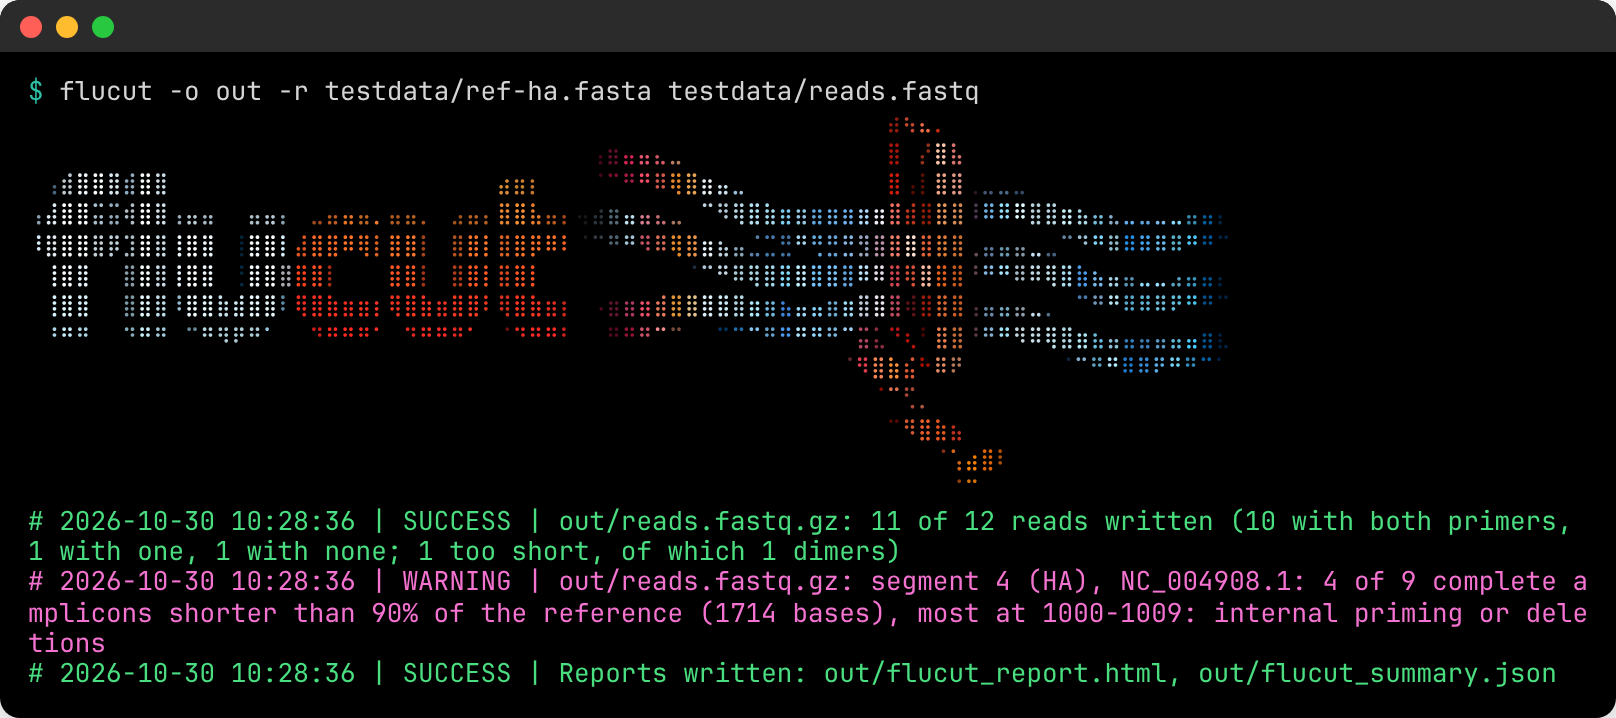
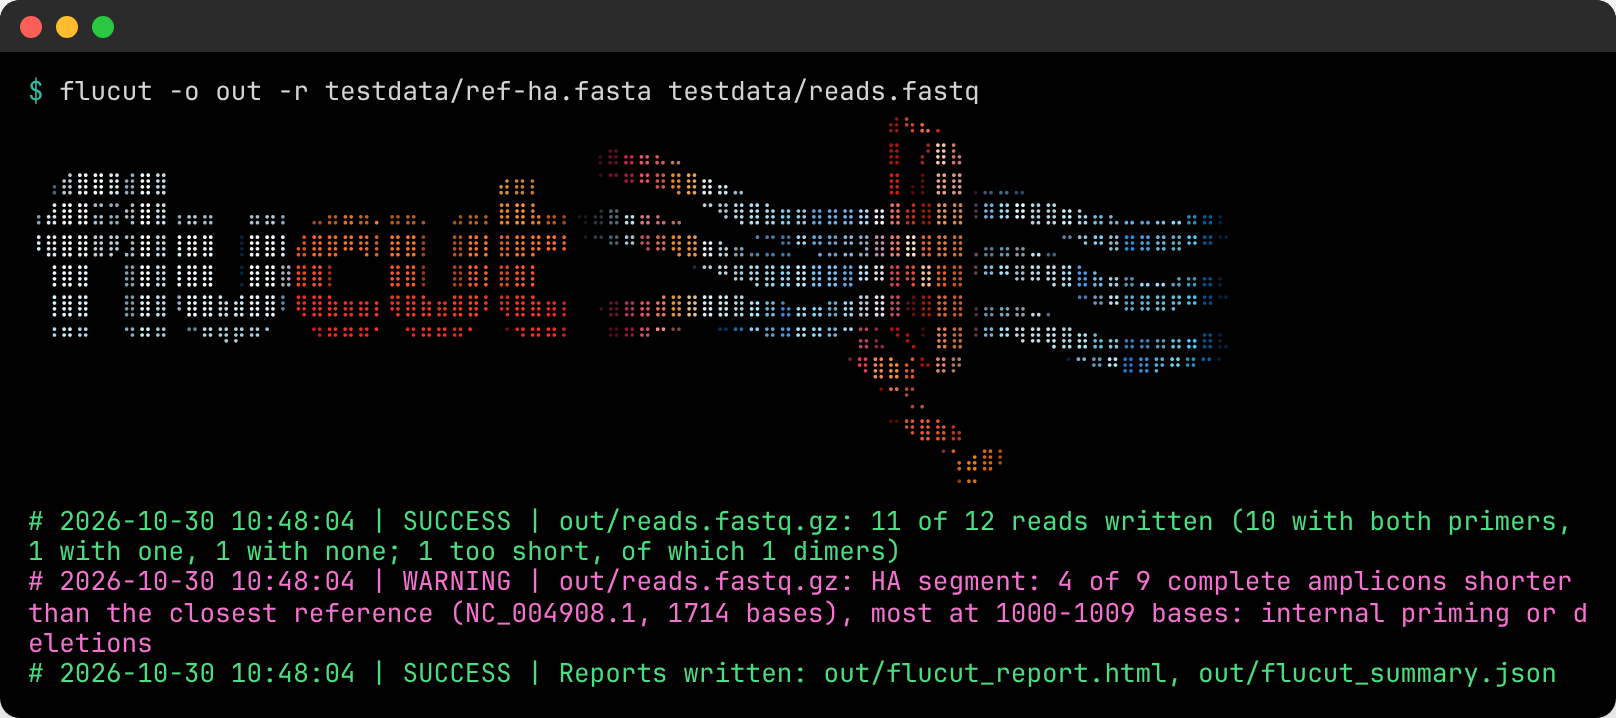
Warning of the short amplicons: the segment first, the closest reference

Changed region(s): [[0.0, 0.7967, 0.9901, 0.9192], [0.1547, 0.9192, 0.2166, 0.9499], [0.1547, 0.7047, 0.2166, 0.7354]]

diff --git a/src/flucut.c b/src/flucut.c
@@ -185,14 +185,16 @@ static size_t write_lengths(const lengths_t *l, const fasta_t *refs,
     n_short += s.short_count;
     if (s.short_count == 0)
       continue;
-    char label[256];
-    segments_label(name, refs->records[g].description, label,
-                   sizeof(label));
-    lprintf(logger, LOG_WARN, "%s: %s: %zu of %zu complete amplicons "
-            "shorter than %.0f%% of the reference (%zu bases), most at "
-            "%zu-%zu: internal priming or deletions\n", path, label,
-            s.short_count, s.total, LENGTHS_SHORT_FRACTION * 100,
-            refs->records[g].seq_len, s.short_bin * LENGTHS_BIN,
+    /* (shorter: below LENGTHS_SHORT_FRACTION of the reference) */
+    int segment = segments_of_description(refs->records[g].description);
+    char seg[32] = "";
+    if (segment > 0)
+      snprintf(seg, sizeof(seg), "%s segment: ", segments_gene(segment));
+    lprintf(logger, LOG_WARN, "%s: %s%zu of %zu complete amplicons "
+            "shorter than the closest reference (%s, %zu bases), most at "
+            "%zu-%zu bases: internal priming or deletions\n", path, seg,
+            s.short_count, s.total, name, refs->records[g].seq_len,
+            s.short_bin * LENGTHS_BIN,
             s.short_bin * LENGTHS_BIN + LENGTHS_BIN - 1);
   }
   return n_short;

diff --git a/docs/manual/cli_reference.rst b/docs/manual/cli_reference.rst
@@ -118,9 +118,11 @@ their kind:
 
 - ``SUCCESS`` (green): the reads written for each output, and the
   reports at the end;
-- ``WARNING`` (magenta): something to look at, e.g. many complete
-  amplicons shorter than their reference (internal priming or
-  deletions), or files of reads ignored beside the barcode directories;
+- ``WARNING`` (magenta): something to look at, e.g. complete amplicons
+  shorter than the closest reference (below 90% of its length: internal
+  priming or deletions; with ``-r``), named by their segment when the
+  reference says it, as in ``HA segment: 4 of 9 complete amplicons
+  shorter than the closest reference (NC_004908.1, 1714 bases)``, or files of reads ignored beside the barcode directories;
 - ``ERROR`` (red): the program stops;
 - with ``-v``, also ``PARAM`` (blue: the values of the options),
   ``PHASE`` (bright yellow: the steps, e.g. the trimming of each file)
